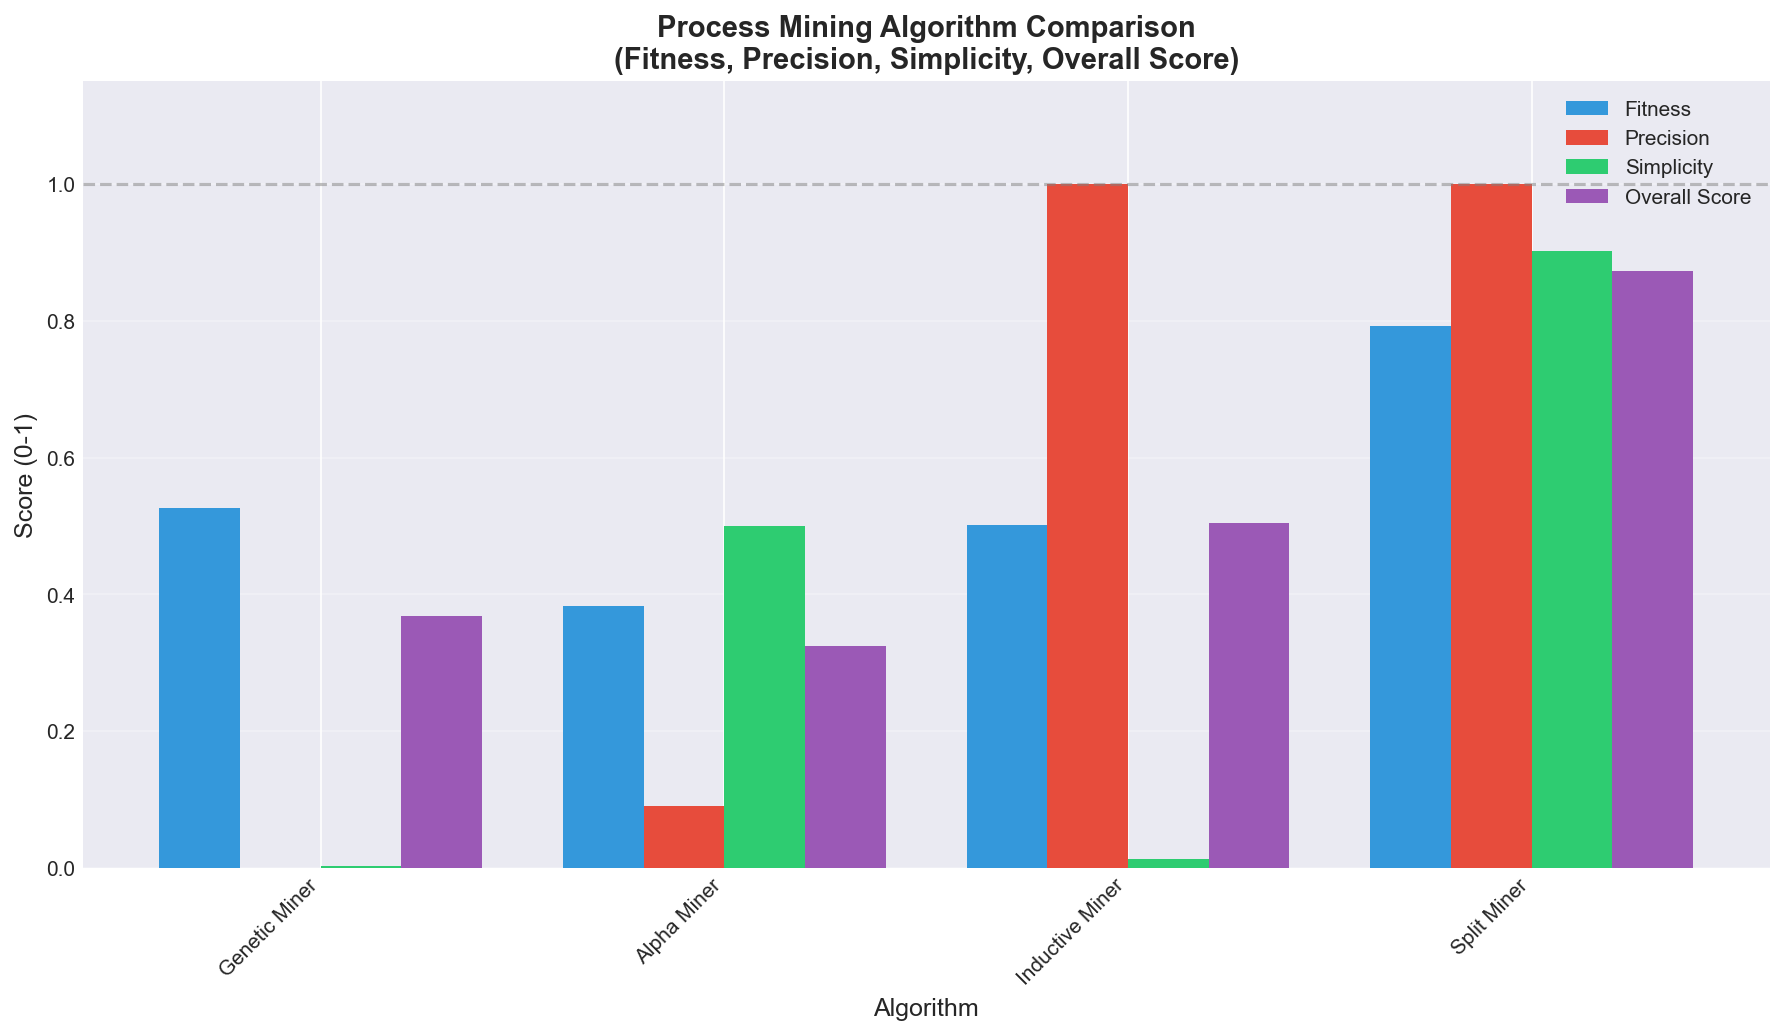
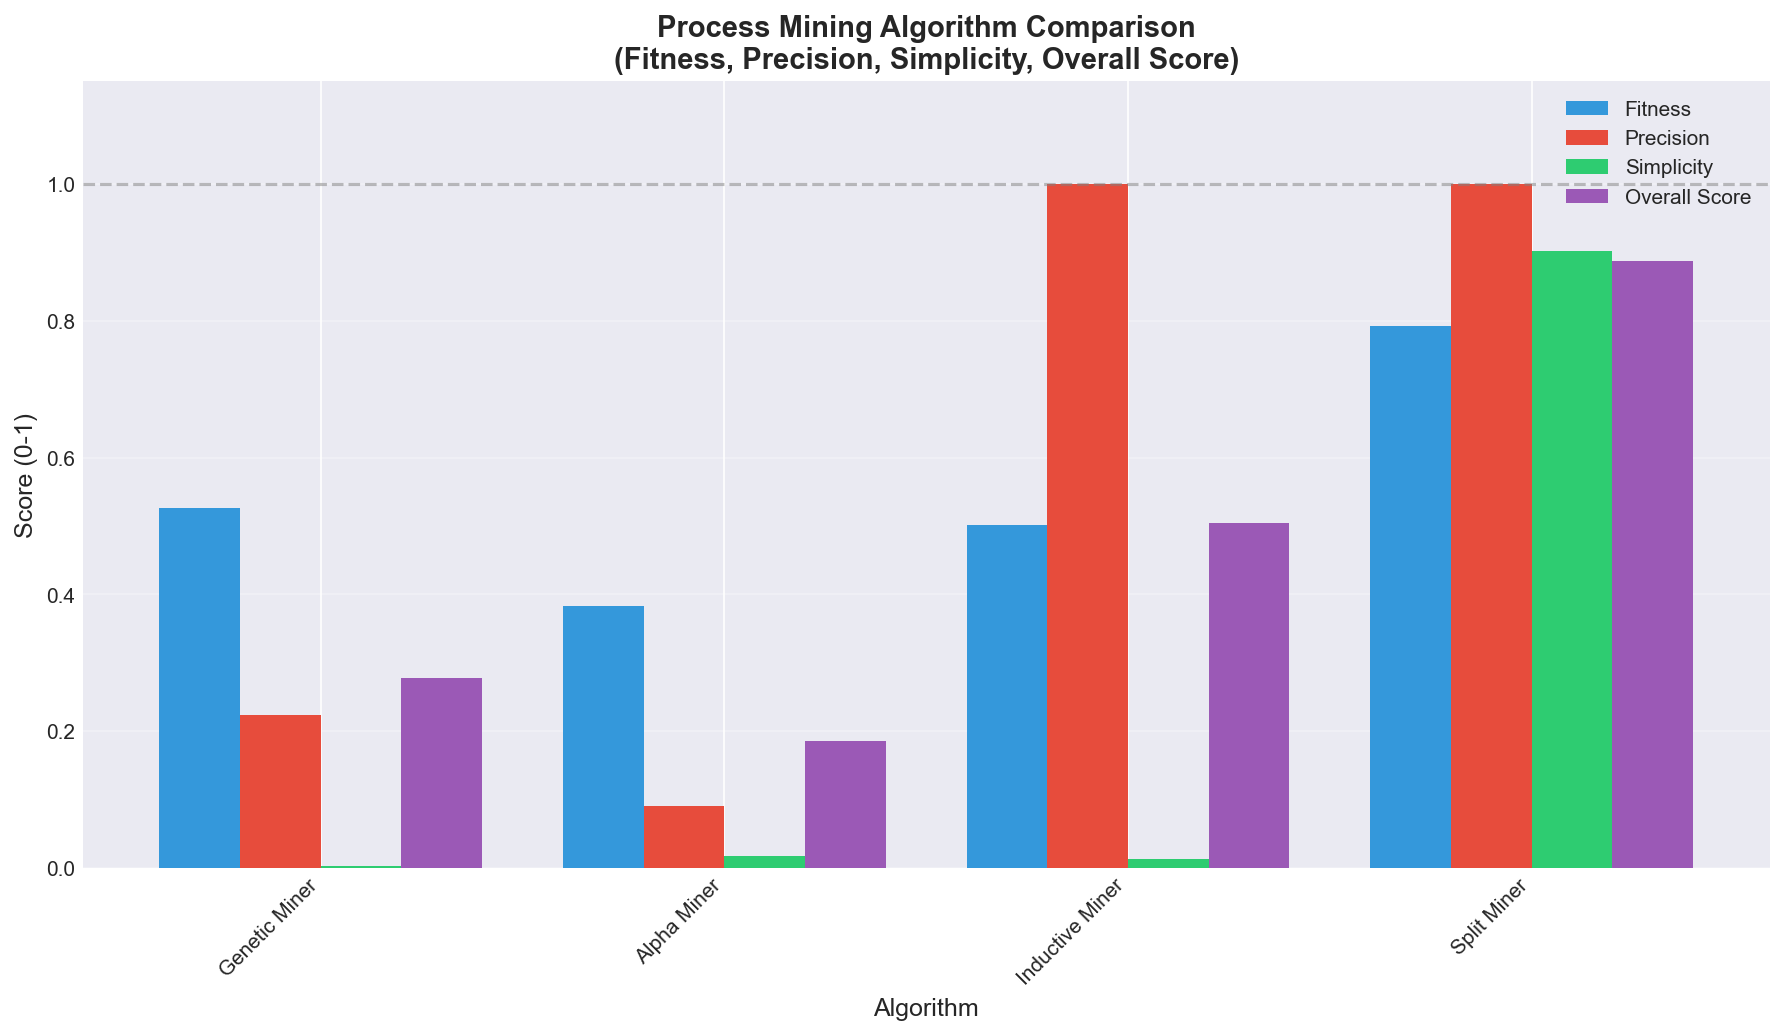
new graphs with the 4 algorithms involved

diff --git a/Compare/output/comparison_table.html b/Compare/output/comparison_table.html
@@ -30,12 +30,12 @@ tr:hover { background-color: #ddd; }
 <tr>
 <td>Genetic Miner</td>
 <td>0.5262</td>
-<td>0.0000</td>
+<td>0.2236</td>
 <td>0.0029</td>
-<td>0.3692</td>
-<td>0.0000</td>
-<td>0</td>
-<td>0</td>
+<td>0.2784</td>
+<td>0.3138</td>
+<td>31509</td>
+<td>1202267</td>
 <td>0</td>
 <td>142</td>
 <td>26</td>
@@ -46,8 +46,8 @@ tr:hover { background-color: #ddd; }
 <td>Alpha Miner</td>
 <td>0.3826</td>
 <td>0.0904</td>
-<td>0.5000</td>
-<td>0.3243</td>
+<td>0.0179</td>
+<td>0.1855</td>
 <td>0.1462</td>
 <td>31509</td>
 <td>1202267</td>
@@ -77,10 +77,10 @@ tr:hover { background-color: #ddd; }
 <td>0.7919</td>
 <td>1.0000</td>
 <td>0.9022</td>
-<td>0.8722</td>
-<td>0.8959</td>
-<td>0</td>
-<td>0</td>
+<td>0.8874</td>
+<td>0.8838</td>
+<td>31509</td>
+<td>1202267</td>
 <td>24</td>
 <td>26</td>
 <td>24</td>

diff --git a/Compare/output/comparison_report.html b/Compare/output/comparison_report.html
@@ -24,7 +24,7 @@
 <body>
 <div class="header">
 <h1>Process Mining Algorithm Comparison Report</h1>
-<p>Generated: 2026-06-06 14:16:47</p>
+<p>Generated: 2026-06-06 15:04:17</p>
 </div>
 <div class="section">
 <h2>Executive Summary</h2>
@@ -45,8 +45,8 @@
 <tr>
 <td>Genetic Miner</td>
 <td>0.5262</td>
-<td>0.0000</td>
-<td>0.0000</td>
+<td>0.2236</td>
+<td>0.3138</td>
 </tr>
 <tr>
 <td>Alpha Miner</td>
@@ -64,7 +64,7 @@
 <td>Split Miner</td>
 <td>0.7919</td>
 <td>1.0000</td>
-<td>0.8959</td>
+<td>0.8838</td>
 </tr>
 </table>
 </div>

diff --git a/Compare/metrics/enricher.py b/Compare/metrics/enricher.py
@@ -1,0 +1,142 @@
+"""
+Post-hoc metric enrichment for comparison results.
+
+This module only reads algorithm outputs. It does not modify or import the
+miner implementations, which keeps the comparison layer independent.
+"""
+
+from pathlib import Path
+from typing import Dict, Optional
+
+from ..config import CompareConfig
+from ..parser.json_parser import AlgorithmMetrics
+from ..parser.pnml_parser import PetriNetStructure
+from ..utils.logging_utils import print_info, print_warning
+
+
+class PostHocMetricEnricher:
+    """Compute missing metrics from JSON/PNML outputs before comparison."""
+
+    def __init__(self, config: CompareConfig, base_dir: str = "."):
+        self.config = config
+        self.base_dir = Path(base_dir)
+        self._event_log = None
+
+    def enrich(
+        self,
+        metrics: AlgorithmMetrics,
+        structure: Optional[PetriNetStructure],
+        pnml_path: str,
+    ) -> AlgorithmMetrics:
+        """Fill missing metric values where Compare has enough data."""
+        if structure:
+            self._fill_structure_stats(metrics, structure)
+            if metrics.simplicity <= 0:
+                metrics.simplicity = self._compute_simplicity(metrics.raw_data, structure)
+
+        if metrics.precision <= 0 and pnml_path:
+            precision = self._compute_precision_from_pnml(pnml_path)
+            if precision is not None:
+                metrics.precision = precision
+
+        self._recompute_derived_scores(metrics)
+        return metrics
+
+    def _fill_structure_stats(
+        self,
+        metrics: AlgorithmMetrics,
+        structure: PetriNetStructure,
+    ) -> None:
+        """Use parsed PNML structure when the JSON did not provide counts."""
+        if metrics.num_places <= 0:
+            metrics.num_places = structure.num_places
+        if metrics.num_transitions <= 0:
+            metrics.num_transitions = structure.num_transitions
+        if metrics.num_arcs <= 0:
+            metrics.num_arcs = structure.num_arcs
+
+    def _compute_simplicity(
+        self,
+        raw_data: Dict,
+        structure: PetriNetStructure,
+    ) -> float:
+        """
+        Compute a simple normalized structural simplicity score.
+
+        Prefer binding counts when present because Genetic/Alpha result JSONs
+        already use that definition. Otherwise fall back to PNML arc count.
+        """
+        input_bindings = raw_data.get("input_bindings", {})
+        output_bindings = raw_data.get("output_bindings", {})
+        binding_arc_count = self._count_binding_arcs(input_bindings)
+        binding_arc_count += self._count_binding_arcs(output_bindings)
+
+        if binding_arc_count > 0:
+            return 1.0 / (1.0 + binding_arc_count)
+
+        if structure.num_arcs > 0:
+            return 1.0 / (1.0 + structure.num_arcs)
+
+        return 0.0
+
+    def _count_binding_arcs(self, bindings: Dict) -> int:
+        """Count arcs represented by nested input/output binding lists."""
+        total = 0
+        for binding_sets in bindings.values():
+            if not isinstance(binding_sets, list):
+                continue
+            for binding in binding_sets:
+                if isinstance(binding, list):
+                    total += len(binding)
+        return total
+
+    def _compute_precision_from_pnml(self, pnml_path: str) -> Optional[float]:
+        """Compute token-based precision using pm4py, PNML, and the event log."""
+        try:
+            import pm4py
+        except ImportError:
+            print_warning("Cannot compute missing precision: pm4py is not installed")
+            return None
+
+        try:
+            event_log = self._load_event_log(pm4py)
+            net, initial_marking, final_marking = pm4py.read_pnml(pnml_path)
+            precision = pm4py.precision_token_based_replay(
+                event_log,
+                net,
+                initial_marking,
+                final_marking,
+            )
+            if isinstance(precision, tuple):
+                precision = precision[0]
+            print_info("Computed missing precision", f"{precision:.4f}")
+            return float(precision)
+        except Exception as e:
+            print_warning(f"Could not compute precision for {pnml_path}: {e}")
+            return None
+
+    def _load_event_log(self, pm4py):
+        """Load the configured event log once and reuse it."""
+        if self._event_log is not None:
+            return self._event_log
+
+        log_path = self.base_dir / self.config.event_log_path
+        self._event_log = pm4py.read_xes(str(log_path))
+        return self._event_log
+
+    def _recompute_derived_scores(self, metrics: AlgorithmMetrics) -> None:
+        """Keep F-score and overall score consistent after enrichment."""
+        if metrics.fitness > 0 and metrics.precision > 0:
+            metrics.f_score = (
+                2 * (metrics.fitness * metrics.precision)
+                / (metrics.fitness + metrics.precision)
+            )
+
+        if not self.config.recompute_overall_score:
+            return
+
+        metrics.overall_score = (
+            metrics.fitness * self.config.overall_fitness_weight
+            + metrics.precision * self.config.overall_precision_weight
+            + metrics.simplicity * self.config.overall_simplicity_weight
+        )

diff --git a/Compare/metrics/calculator.py b/Compare/metrics/calculator.py
@@ -11,9 +11,11 @@ import numpy as np
 
 from ..parser.pnml_parser import PNMLParser, PetriNetStructure
 from ..parser.json_parser import JSONMetricsParser, AlgorithmMetrics
+from ..metrics.enricher import PostHocMetricEnricher
 from ..runner.detector import OutputDetector, AlgorithmOutput
 from ..utils.logging_utils import print_header, print_info, print_success, print_stage
 from ..utils.file_utils import ensure_dir
+from ..config import get_compare_config
 
 
 @dataclass
@@ -81,8 +83,10 @@ class MetricsCalculator:
     def __init__(self):
         """Initialize the metrics calculator."""
         self._result: Optional[ComparisonResult] = None
+        self._config = get_compare_config()
         self._pnml_parser = PNMLParser()
         self._json_parser = JSONMetricsParser()
+        self._enricher: Optional[PostHocMetricEnricher] = None
     
     @property
     def result(self) -> Optional[ComparisonResult]:
@@ -91,7 +95,8 @@ class MetricsCalculator:
     
     def calculate(
         self,
-        outputs: Dict[str, AlgorithmOutput]
+        outputs: Dict[str, AlgorithmOutput],
+        base_dir: str = ".",
     ) -> ComparisonResult:
         """
         Calculate metrics for all algorithms.
@@ -103,6 +108,7 @@ class MetricsCalculator:
             ComparisonResult with all aggregated data
         """
         print_stage(2, "CALCULATING METRICS")
+        self._enricher = PostHocMetricEnricher(self._config, base_dir)
         
         results = {}
         
@@ -147,6 +153,13 @@ class MetricsCalculator:
                 result.metrics = self._json_parser.parse(output.json_path, name)
             except Exception:
                 pass
+
+        if self._config.compute_missing_metrics and result.metrics:
+            result.metrics = self._enricher.enrich(
+                result.metrics,
+                result.structure,
+                output.pnml_path,
+            )
         
         return result
     
@@ -181,7 +194,26 @@ class MetricsCalculator:
             rows.append(row)
         
         df = pd.DataFrame(rows)
+        self._normalize_shared_event_log_stats(df)
         return df
+
+    def _normalize_shared_event_log_stats(self, df: pd.DataFrame) -> None:
+        """
+        Apply shared event-log counts across all compared algorithms.
+
+        The compared miners run on the same log, but not every output JSON
+        exports num_cases/num_events. Use the non-zero values that are present
+        so CSV/report rows stay comparable.
+        """
+        for column in ("num_cases", "num_events"):
+            if column not in df.columns:
+                continue
+
+            non_zero_values = df.loc[df[column] > 0, column]
+            if non_zero_values.empty:
+                continue
+
+            df[column] = int(non_zero_values.max())
     
     def _print_summary(self, df: pd.DataFrame) -> None:
         """Print a summary of the comparison."""

diff --git a/Compare/parser/json_parser.py b/Compare/parser/json_parser.py
@@ -318,14 +318,12 @@ class JSONMetricsParser:
             fscore_data = qm.get("f_score", {})
             metrics.f_score = self._as_float(fscore_data)
         
-        # No simplicity score for Alpha Miner (set default)
-        metrics.simplicity = 0.5  # Default neutral value
+        # Alpha's metrics JSON does not include simplicity; Compare can enrich
+        # it from PNML structure after parsing.
+        metrics.simplicity = self._as_float(data.get("simplicity_score", 0.0))
         
         # Calculate overall from available metrics
-        if metrics.fitness > 0 and metrics.precision > 0:
-            metrics.overall_score = (metrics.fitness + metrics.precision + metrics.simplicity) / 3
-        elif metrics.fitness > 0:
-            metrics.overall_score = metrics.fitness
+        metrics.overall_score = self._as_float(data.get("overall_score", 0.0))
         
         # Event log
         if "event_log" in data:
@@ -392,7 +390,7 @@ class JSONMetricsParser:
         metrics.simplicity = self._as_float(
             data.get("simplicity") or
             data.get("simplicity_score") or
-            0.5  # Default
+            0.0
         )
         
         # Try to find any overall-related field

diff --git a/Compare/main.py b/Compare/main.py
@@ -104,7 +104,7 @@ def run_comparison(
     # Stage 3: Calculate Metrics
     # ==========================================================================
     calculator = MetricsCalculator()
-    comparison_result = calculator.calculate(outputs)
+    comparison_result = calculator.calculate(outputs, base_dir)
     
     # ==========================================================================
     # Stage 4: Generate Visualizations

diff --git a/Compare/config.py b/Compare/config.py
@@ -54,6 +54,13 @@ class CompareConfig:
     min_fitness_threshold: float = 0.8
     min_precision_threshold: float = 0.6
 
+    # Post-hoc metric enrichment
+    compute_missing_metrics: bool = True
+    recompute_overall_score: bool = True
+    overall_fitness_weight: float = 0.4
+    overall_precision_weight: float = 0.3
+    overall_simplicity_weight: float = 0.3
+
 
 # Default algorithm configurations
 DEFAULT_ALGORITHMS = [

diff --git a/Compare/output/comparison_report.md b/Compare/output/comparison_report.md
@@ -1,6 +1,6 @@
 # Process Mining Algorithm Comparison Report
 
-**Generated:** 2026-06-06 14:16:47
+**Generated:** 2026-06-06 15:04:17
 
 ## Executive Summary
 
@@ -11,10 +11,10 @@
 
 | Name | Fitness | Precision | F Score |
 |---|---|---|---|
-| Genetic Miner | 0.5262 | 0.0000 | 0.0000 |
+| Genetic Miner | 0.5262 | 0.2236 | 0.3138 |
 | Alpha Miner | 0.3826 | 0.0904 | 0.1462 |
 | Inductive Miner | 0.5014 | 1.0000 | 0.6679 |
-| Split Miner | 0.7919 | 1.0000 | 0.8959 |
+| Split Miner | 0.7919 | 1.0000 | 0.8838 |
 
 ## Model Structure
 
@@ -40,5 +40,5 @@
 |------|-----------|-----------|
 | 1 | Inductive Miner | 1.0000 |
 | 2 | Split Miner | 1.0000 |
-| 3 | Alpha Miner | 0.0904 |
-| 4 | Genetic Miner | 0.0000 |
+| 3 | Genetic Miner | 0.2236 |
+| 4 | Alpha Miner | 0.0904 |
